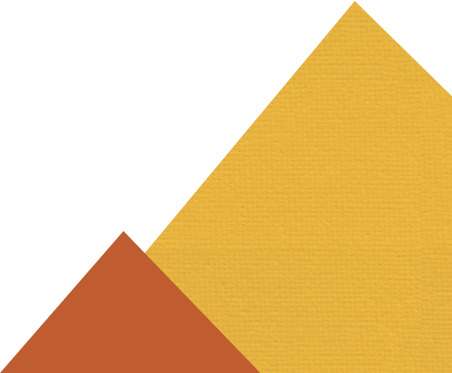
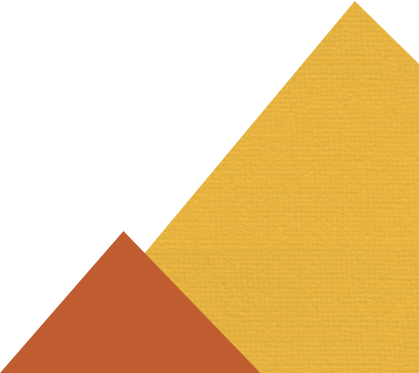
task completed

diff --git a/afliate/layout1/index.html b/afliate/layout1/index.html
@@ -73,11 +73,11 @@
             </section>
         </main>
         <footer>
-            <div class="additional-information">
-                <div class="hosting-services">
+            <div class="info">
+                <div class="hosting">
                     <nav>
+                        <h3>HOSTING SERVICES</h3>
                         <ul>
-                            <h3>HOSTING SERVICES</h3>
                             <li><a href="#"> Web Hosting</a></li>
                             <li><a href="#">WordPress Hosting</a></li>
                             <li><a href="#">WooCommerce Hosting</a></li>
@@ -93,8 +93,8 @@
                 </div>
                 <div class="useful-resources">
                     <nav>
+                        <h3>USEFUL RESOURCES</h3>
                         <ul>
-                            <h3>USEFUL RESOURCES</h3>
                            <li> <a href="#">WordPress Tutorial</a></li>
                            <li> <a href="#">WordPress Optimization Ebook</a></li>
                            <li> <a href="#">WordPress Security Ebook</a></li>
@@ -110,8 +110,8 @@
                 </div>
                 <div class="about-us">
                     <nav>
+                        <h3>ABOUT US</h3>
                         <ul>
-                            <h3>ABOUT US</h3>
                             <li> <a href="#">Company</a></li>
                             <li> <a href="#">Affiliate Program</a></li>
                             <li> <a href="#">SiteGround Reviews</a></li>
@@ -127,10 +127,9 @@
                     <nav>
                         <ul>
                             <li><a href="#">What are Brute Force Attacks and Why YOU Don’t Have to Worry About Them</a></li>
-                            <div>
-                                <div>
-                                    <i></i>
-                                    <p>04 Feb, 2021</p>
+                            <div class="comments">
+                                <div class="clock">
+                                    <i class="fa fa-clock-o" aria-hidden="true"> 04 Feb, 2021</i>
                                 </div>
                                 <div>
                                     <i></i>
@@ -138,10 +137,10 @@
                                 </div>
                             </div>
                             <li><a href="#">New MySQL Setup For Faster Query Processing</a></li>
-                            <div>
-                                <div>
-                                    <i></i>
-                                    <p>28 Jan, 2021</p>
+                            <div class="comments">
+                                <div class="clock">
+                                    <i class="fa fa-clock-o" aria-hidden="true"> 28 Jan, 2021</i>
+                                    <p></p>
                                 </div>
                                 <div>
                                     <i></i>
@@ -158,43 +157,48 @@
                 </div>
             </div>
             <div class="region">
-                <p>REGION:</p>
-                <select name="world" id="world">
-                    <option selected>world</option>
-                    <option value="United States">United States</option>
-                    <option value="United Kingdom">United Kingdom</option>
-                    <option value="Spain">Spain</option>
-                    <option value="Italy"> Italy</option>
-                    <option value="Germany">Germany</option>
-                    <option value="Europe"> Europe</option>
-                    <option value="Australia">Australia</option>
-                    <option value="LATAM">LATAM</option>
-                </select>
-                <p>WE ACCEPT:</p>
-                <i></i>
-                <i></i>
-                <i></i>
-                <i></i>
+               <div class="region-world">
+                    <p>REGION:</p>
+               
+                    <select name="world" id="world">
+                        <option selected>world</option>
+                        <option value="United States">United States</option>
+                        <option value="United Kingdom">United Kingdom</option>
+                        <option value="Spain">Spain</option>
+                        <option value="Italy"> Italy</option>
+                        <option value="Germany">Germany</option>
+                        <option value="Europe"> Europe</option>
+                        <option value="Australia">Australia</option>
+                        <option value="LATAM">LATAM</option>
+                    </select>
+                </div>
+               
+                    <div class="region-accept">
+                        <p>WE ACCEPT:</p> 
+              
+                    <img src="./css/img/v.png" alt="payment cards" class="cards">       
+                    </div>
+               
             </div>
-            <div class="terms-and-conditions">
+            <div class="terms">
                 <div class="rules-list">
                    <nav>
                        <ul>
                             <li>
-                                <a href="#">Terms and Conditions</a>
+                                <a href="#">Terms and Conditions   |</a>
                                 <a href="#">Privacy</a>
                             </li>
+                            <li class="all">© 2021 SiteGround Hosting Ltd. All rights reserved.</li>
                        </ul>
-                   </nav>
-                    <p>© 2021 SiteGround Hosting Ltd. All rights reserved.</p>
+                   </nav>  
                 </div>
                 <div class="social-media">
-                    <a href="#"><ion-icon name="logo-facebook"></ion-icon></a>
-                    <a href="#"><ion-icon name="logo-twitter"></ion-icon></a>
-                    <a href="#"><ion-icon name="logo-instagram"></ion-icon></a>
+                    <a href="#"> <i class="fa fa-facebook" aria-hidden="true" ></i></i></a>
+                    <a href="#"> <i class="fa fa-twitter" aria-hidden="true"></i></i></a>
+                    <a href="#"> <i class="fa fa-instagram" aria-hidden="true"></i></a>
                 </div>
             </div>
-        </footer> -->
+        </footer>
         
     </body>
 </html>

diff --git a/afliate/layout1/css/style.css b/afliate/layout1/css/style.css
@@ -56,10 +56,9 @@ a{
     color: #333230;
 }
 .hero-banner{
-    background-image:  url("./img/background.png"), url("./img/lines.png"), url("./img/background-colour.jpg");
+    background-image:  url("./img/background.png"), url("./img/lin.png"), url("./img/background-colour.jpg");
     background-repeat: no-repeat,no-repeat,repeat;
-    background-position: right;
-    background-position: bottom;
+    background-position: bottom right;
 }
 .host{
     text-align: center;
@@ -194,8 +193,126 @@ a{
     font-size: 20px;
     margin: 30px 0;
 }
+footer{
+    background: #333230;
+}
+.info{
+    display: flex;
+    justify-content: space-evenly;
+    padding: 55px 190px;
+}
+h3{
+    color: #a4a4a4;
+    font-size: 15px;
+}
+.info li a{
+    color: #ddd;
+    font-size: 14px;
+}
+.info li a:hover{
+    text-decoration: underline;
+}
+.info ul{
+    padding: 15px 0;
+}
+.info li{
+    padding: 2px 0;
+    list-style-type: none;
+}
+.recent-blog{
+    width: 20%;
+}
+.comments{
+    display: flex;
+    justify-content: space-between;
+}
+.clock{
+    font-size: 13px;
+    color: #666;
+}
+.comments a{
+    font-size: 13px;
+    color: #666;
+}
+.hr{
+    width: 100px;
+}
+.region{
+    display: flex;
+    width: 70%;
+    border-bottom: 1px solid grey;
+    margin: 10px 0 15px 312px;
+}
+.region p{
+    font-size: 10px;
+    color: #ddd;
+    padding: 21px 8px 0;
+}
+#world{
+   background: inherit;
+    border: none;
+    color: #a4a4a4;
+    width: 53px;
+    font-size: 14px;
+    padding: 16px 0;
+}
+.region-world{
+    display: flex;
+}
+.region-accept{
+    display: flex;
+}
+select{
+    display: block;
+}
+.cards{
+    width: 160px;
+    height: 32px;
+    margin: 10px 0;
+}
+.terms{
+    display: flex;
+    justify-content: space-between;
+    padding: 10px 280px;
+    font-size: 10px;
+}
+.terms li{
+    list-style-type: none;
+}
+.terms li a{
+    color: #ddd;
+}
+.all{
+    margin: 5px 0 0;
+    color: #a4a4a4;
+}
+.social-media a{
+    color: white;
+}
+.social-media a i{
+    font-size: 20px;
+    padding: 5px 5px;
+    border-radius: 50%;
+    border: 2px solid lightgray;
+    margin: 0 2px;
+    width: 20px;
+    height: 20px;
+    text-align: center;
+}
+.social-media a:hover{
+    color: lightgray;
+}
 
 /* media queries */
+@media only screen and (max-width: 1520px){
+    .region {
+        margin: 10px 0 15px 232px;
+    }
+
+    .terms {
+        padding: 10px 192px;
+    }
+}
 @media only screen and (max-width: 1199px) {
     .host{
         width: 75%;
@@ -212,6 +329,18 @@ a{
      .refer-client{
          padding: 60px 0;
      }
+     .info {
+        padding: 55px 0px;
+    }
+
+    .region {
+        width: 93%;
+        margin: 10px 0 15px 39px;
+    }
+    .terms {
+        padding: 10px 0px;
+        font-size: 8px;
+    }
 
 }
 @media only screen and (max-width: 1023px) {
@@ -258,10 +387,42 @@ a{
     .join{
         padding-bottom: 40px;
     }
+
+    .info{
+        display: grid;
+        grid-template-columns: repeat(2,1fr);
+        padding: 30px 15px;
+    }
+    .recent-blog {
+        width: 92%;
+    }
+
+    .region {
+        margin: 10px 0 15px 7px;
+        width: 97%;
+    }
+
+    .terms {
+        padding: 0 25px 1px 0px;
+    }
+
+    .rules-list{
+        margin-left: -25px;
+    }
+
+    .social-media a i{
+        padding: 3px 3px;
+    }
+    footer{
+        padding: 20px 0px;
+    }
 }
 @media only screen and (max-width: 767px){
     .login a{
         display: none;
+    }
+    .hero-banner{
+        background-position: bottom;
     }
     
     .host h1{
@@ -269,7 +430,7 @@ a{
     }
 
     .host p{
-        padding: 5px 14px;
+        padding: 30px 14px;
         font-size: 18px;
     }
 
@@ -322,5 +483,41 @@ a{
     
     .join p {
         font-size: 16px;
+    }
+
+    .info{
+        display: flex;
+        flex-flow: column;
+    }
+    .region{
+        display: flex;
+        justify-content: center;
+        align-items: center;
+        text-align: center;
+        flex-direction: column;
+    }
+    .terms{
+        display: block;
+        text-align: center;
+    }
+
+    .social-media a i{
+        padding: 2px 2px;
+        margin: 10px 2px;
+    }
+    
+    .region-accept {
+        margin: 10px;
+    }
+    .cards {
+        margin: 0px 0 60px 10px;
+        width: 100px;
+        height: 24px;
+    }
+    .region p {
+        padding: 5px 0 0;
+    }
+    #world {
+        padding: 0;
     }
 }
